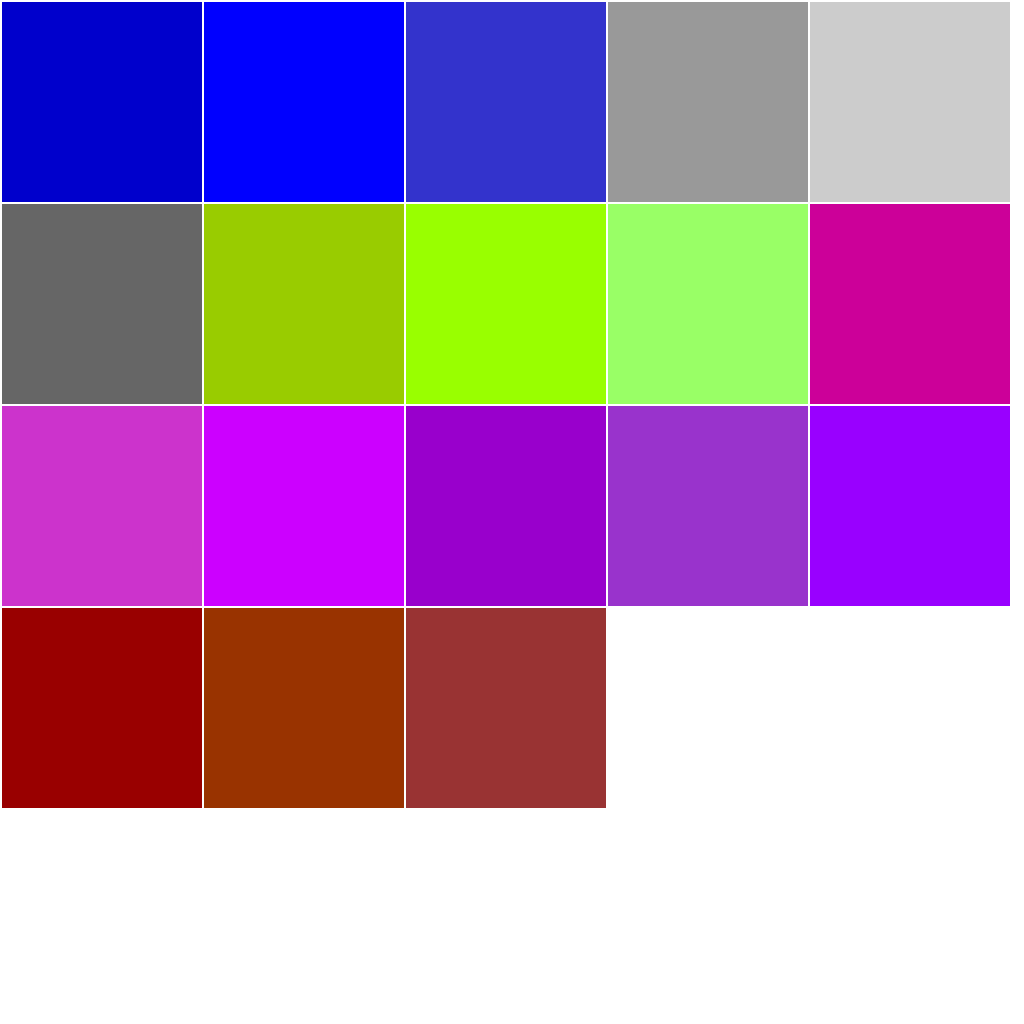
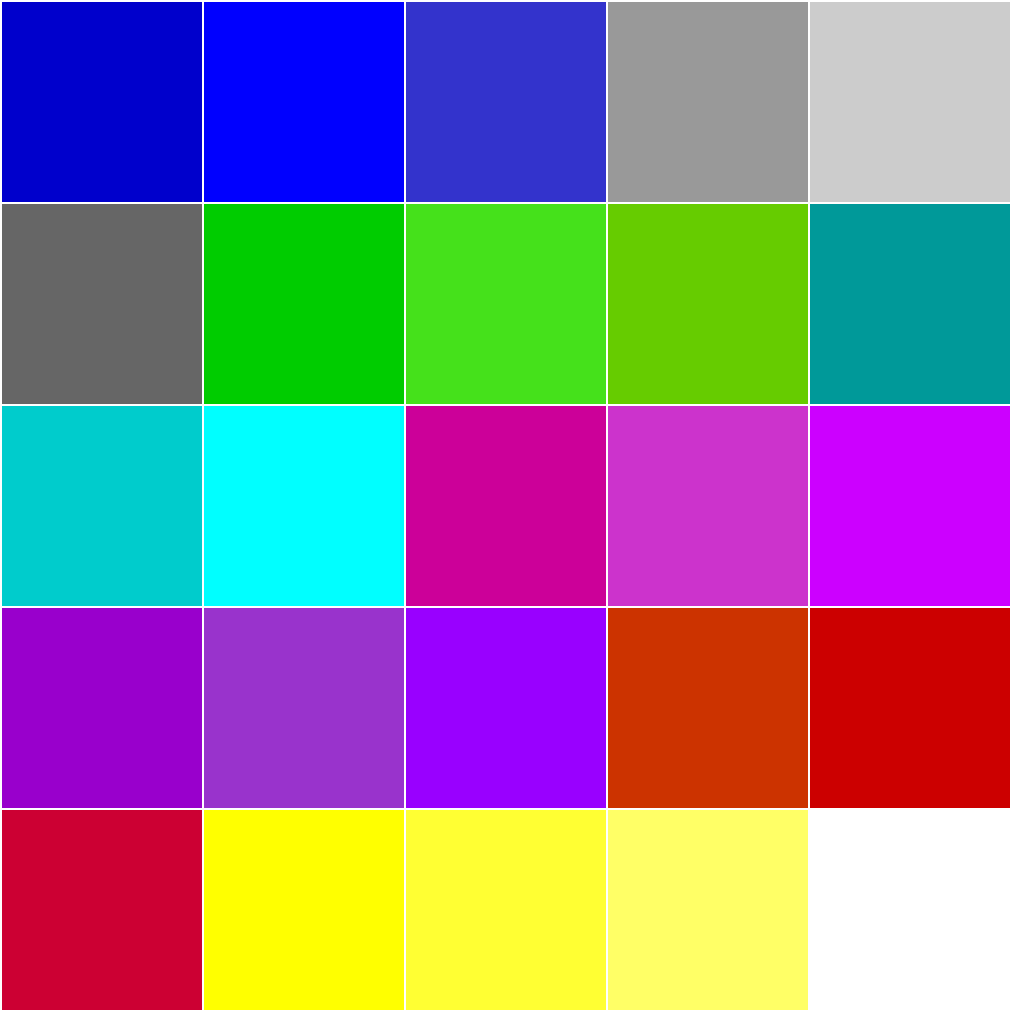
ver1.5

diff --git a/colorBlock/colorBlock.js b/colorBlock/colorBlock.js
@@ -2405,12 +2405,12 @@ ccs.SceneReader.getInstance=function(){this._instance||(this._instance=new ccs.S
 this.addChild(a,1);return!0},startGame:function(){cc.log("go");var a=mainLayer.create();cc.Director.getInstance().replaceScene(cc.TransitionFade.create(0.5,a))}}),MyScene=cc.Scene.extend({onEnter:function(){this._super();var a=new beginLayer;this.addChild(a);a.init()}});var cocos2dApp=cc.Application.extend({config:document.ccConfig,ctor:function(a){this._super();this.startScene=a;cc.COCOS2D_DEBUG=this.config.COCOS2D_DEBUG;cc.initDebugSetting();cc.setup(this.config.tag);cc.AppController.shareAppController().didFinishLaunchingWithOptions()},applicationDidFinishLaunching:function(){var a=cc.Director.getInstance(),c=[],d=[];c.push("res");cc.FileUtils.getInstance().setSearchPaths(c);d.push("HD");cc.FileUtils.getInstance().setSearchResolutionsOrder(d);cc.EGLView.getInstance().adjustViewPort(!0);
 cc.EGLView.getInstance().setDesignResolutionSize(640,960,cc.RESOLUTION_POLICY.SHOW_ALL);cc.EGLView.getInstance()._resizeWithBrowserSize(!0);a.setAnimationInterval(1/this.config.frameRate);cc.LoaderScene.preload(g_resources,function(){a.replaceScene(new this.startScene)},this);return!0}}),myApp=new cocos2dApp(MyScene);var mainLayer=cc.LayerColor.extend({winsize:null,blockArray:null,gameTime:30,sp_gameTime:null,gameLevel:0,sp_gameLevel:null,posArray:null,toFindBlock:null,otherTag:200,init:function(){this._super();this.winsize=cc.Director.getInstance().getWinSize();var a=cc.Sprite.create(s_img01);a.setPosition(cc.p(0.5*this.winsize.width,0.5*this.winsize.height));this.addChild(a,1);cc.SpriteFrameCache.getInstance().addSpriteFrames(s_img08);this.blockArray=[];this.sp_gameTime=cc.LabelTTF.create("\u65f6\u95f4 : "+
 this.gameTime,"Consolas",30);this.sp_gameTime.setAnchorPoint(cc.p(0,0.5));this.sp_gameTime.setColor(cc.c3(245,245,50));this.sp_gameTime.setPosition(cc.p(0.1*this.winsize.width,0.82*this.winsize.height));this.addChild(this.sp_gameTime,2);this.sp_gameLevel=cc.LabelTTF.create("\u7ec4\u6570 : "+this.gameLevel,"Consolas",30);this.sp_gameLevel.setAnchorPoint(cc.p(0,0.5));this.sp_gameLevel.setColor(cc.c3(245,245,50));this.sp_gameLevel.setPosition(cc.p(0.66*this.winsize.width,0.82*this.winsize.height));this.addChild(this.sp_gameLevel,
-2);this.setTouchEnabled(!0);this.toFindBlock=cc.Sprite.createWithSpriteFrameName("img_red01.png");this.scheduleOnce(this.addBlocks);this.schedule(this.timeTicking,1,cc.REPEAT_FOREVER,0.05)},onEnterTransitionDidFinish:function(){},gotoOverLayer:function(){var a=overLayer.create(this.gameLevel,parseInt(this.gameTime/60));cc.Director.getInstance().replaceScene(a)},addBlocks:function(){for(var a=200;210>a;a++){var c=this.getChildByTag(a);this.removeChild(c,!0)}cc.log("schedule");var a=this.getRandom(6)+
-1,d=this.getRandom(3)+1,e=this.getDifferent(d),c=this.getRandom(3)+1,f=this.getRandom(3)+1,g,h,k;switch(a){case 1:g="img_blue";break;case 2:g="img_gray";break;case 3:g="img_green";break;case 4:g="img_pink";break;case 5:g="img_purple";break;case 6:g="img_red"}switch(d){case 1:h=g+"01.png";break;case 2:h=g+"02.png";break;case 3:h=g+"03.png"}switch(e){case 1:k=g+"01.png";break;case 2:k=g+"02.png";break;case 3:k=g+"03.png"}this.toFindBlock.initWithSpriteFrameName(h);this.toFindBlock.setPosition(this.makePosition(c,
-f));this.toFindBlock.setTag(200);this.addChild(this.toFindBlock,1);for(a=1;3>=a;a++)for(g=1;3>=g;g++)if(a!=c||g!=f)h=cc.Sprite.createWithSpriteFrameName(k),h.setPosition(this.makePosition(a,g)),this.otherTag+=1,h.setTag(this.otherTag),this.addChild(h,1)},makePosition:function(a,c){var d,e;switch(a){case 1:d=0.5*this.winsize.width+200;break;case 2:d=0.5*this.winsize.width;break;case 3:d=0.5*this.winsize.width-200}switch(c){case 1:e=0.45*this.winsize.height+200;break;case 2:e=0.45*this.winsize.height;
-break;case 3:e=0.45*this.winsize.height-200}return cc.p(d,e)},timeTicking:function(){this.gameTime-=1;this.sp_gameTime.setString("\u65f6\u95f4 : "+this.gameTime);0==this.gameOver&&(this.unschedule(this.timeTicking),this.gotoOverLayer(this.gameTime,this.gameLevel))},getRandom:function(a){return Math.floor(Math.random()*a)%a},getDifferent:function(a){for(var c=this.getRandom(3)+1;c==a;)c=this.getRandom(3)+1;return c},onTouchesMoved:function(a,c){},onTouchesEnded:function(a,c){this.onClickFlag=!1},onTouchesBegan:function(a,
-c){var d=a[0].getLocation();cc.rectContainsPoint(this.toFindBlock.getBoundingBox(),d)?(this.onClickFlag=!0,this.otherTag=200,this.gameLevel+=1,this.sp_gameLevel.setString("\u7ec4\u6570 : "+this.gameLevel),this.scheduleOnce(this.addBlocks)):this.gotoOverLayer(this.gameTime,this.gameLevel)}});mainLayer.create=function(){var a=new mainLayer;a.init();var c=cc.Scene.create();c.addChild(a);return c};var overLayer=cc.LayerColor.extend({winsize:null,gameLevel:0,gameTime:0,init:function(){this._super();this.winsize=cc.Director.getInstance().getWinSize();var a=cc.Sprite.create(s_img01);a.setPosition(cc.p(0.5*this.winsize.width,0.5*this.winsize.height));this.addChild(a,1);a=cc.Sprite.create(s_img06);a.setPosition(cc.p(0.5*this.winsize.width,0.55*this.winsize.height));this.addChild(a,1);a=cc.MenuItemImage.create(s_img04,s_img05,this.gotoMainLayer,this);a=cc.Menu.create(a);a.setPosition(cc.p(0.5*this.winsize.width,
+2);this.setTouchEnabled(!0);this.toFindBlock=cc.Sprite.createWithSpriteFrameName("img_red01.png");this.scheduleOnce(this.addBlocks);this.schedule(this.timeTicking,1)},onEnterTransitionDidFinish:function(){},gotoOverLayer:function(){var a=overLayer.create(this.gameLevel,this.gameTime);cc.Director.getInstance().replaceScene(a)},addBlocks:function(){for(var a=200;210>a;a++){var c=this.getChildByTag(a);this.removeChild(c,!0)}cc.log("schedule");var a=this.getRandom(6)+1,d=this.getRandom(3)+1,e=this.getDifferent(d),
+c=this.getRandom(3)+1,f=this.getRandom(3)+1,g,h,k;switch(a){case 1:g="img_blue";break;case 2:g="img_gray";break;case 3:g="img_green";break;case 4:g="img_pink";break;case 5:g="img_purple";break;case 6:g="img_red";break;case 7:g="img_yellow"}switch(d){case 1:h=g+"01.png";break;case 2:h=g+"02.png";break;case 3:h=g+"03.png"}switch(e){case 1:k=g+"01.png";break;case 2:k=g+"02.png";break;case 3:k=g+"03.png"}this.toFindBlock.initWithSpriteFrameName(h);this.toFindBlock.setPosition(this.makePosition(c,f));
+this.toFindBlock.setTag(200);this.addChild(this.toFindBlock,1);for(a=1;3>=a;a++)for(g=1;3>=g;g++)if(a!=c||g!=f)h=cc.Sprite.createWithSpriteFrameName(k),h.setPosition(this.makePosition(a,g)),this.otherTag+=1,h.setTag(this.otherTag),this.addChild(h,1)},makePosition:function(a,c){var d,e;switch(a){case 1:d=0.815*this.winsize.width;break;case 2:d=0.5*this.winsize.width;break;case 3:d=0.185*this.winsize.width}switch(c){case 1:e=0.66*this.winsize.height;break;case 2:e=0.45*this.winsize.height;break;case 3:e=
+0.24*this.winsize.height}return cc.p(d,e)},timeTicking:function(){0>=this.gameTime?(cc.log("unschedule"),this.unschedule(this.timeTicking),this.gotoOverLayer()):(this.gameTime-=1,this.sp_gameTime.setString("\u65f6\u95f4 : "+this.gameTime))},getRandom:function(a){return Math.floor(Math.random()*a)%a},getDifferent:function(a){for(var c=this.getRandom(3)+1;c==a;)c=this.getRandom(3)+1;return c},onTouchesMoved:function(a,c){},onTouchesEnded:function(a,c){this.onClickFlag=!1},onTouchesBegan:function(a,
+c){var d=a[0].getLocation();cc.rectContainsPoint(this.toFindBlock.getBoundingBox(),d)?(this.onClickFlag=!0,this.otherTag=200,this.gameLevel+=1,this.sp_gameLevel.setString("\u7ec4\u6570 : "+this.gameLevel),this.scheduleOnce(this.addBlocks)):this.gotoOverLayer()}});mainLayer.create=function(){var a=new mainLayer;a.init();var c=cc.Scene.create();c.addChild(a);return c};var overLayer=cc.LayerColor.extend({winsize:null,gameLevel:0,gameTime:0,init:function(){this._super();this.winsize=cc.Director.getInstance().getWinSize();var a=cc.Sprite.create(s_img01);a.setPosition(cc.p(0.5*this.winsize.width,0.5*this.winsize.height));this.addChild(a,1);a=cc.Sprite.create(s_img06);a.setPosition(cc.p(0.5*this.winsize.width,0.55*this.winsize.height));this.addChild(a,1);a=cc.MenuItemImage.create(s_img04,s_img05,this.gotoMainLayer,this);a=cc.Menu.create(a);a.setPosition(cc.p(0.5*this.winsize.width,
 0.29*this.winsize.height));this.addChild(a,1);a=cc.Sprite.create(s_img11);a.setPosition(cc.p(0.5*this.winsize.width,0.8*this.winsize.height));this.addChild(a,1);a=cc.Sprite.create(s_img10);a.setPosition(cc.p(0.8*this.winsize.width,0.81*this.winsize.height));a.setRotation(30);a.setScale(0.8);this.addChild(a,1);var c=cc.MoveTo.create(0.4,cc.p(0.85*this.winsize.width,0.85*this.winsize.height)),d=cc.MoveTo.create(0.4,cc.p(0.8*this.winsize.width,0.81*this.winsize.height)),c=cc.Sequence.create(c,d),c=cc.RepeatForever.create(c);
-a.runAction(c);a=cc.LabelTTF.create("\u4f60\u572830\u79d2\u5185\u5171\u8bc6\u522b\uff1a"+this.gameLevel+"\u7ec4","Arial",25);a.setAnchorPoint(cc.p(0.5,0.5));a.setColor(cc.c3(245,245,50));a.setPosition(cc.p(0.5*this.winsize.width,0.6*this.winsize.height));this.addChild(a,1);a=cc.LabelTTF.create(20>this.gameLevel?"\u773c\u7565\u7638\uff0c\u9a9a\u5e74\u8fd8\u9700\u52a0\u6cb9\uff01":15<=this.gameLevel&&40>this.gameLevel?"\u522b\u6025\uff0c\u5e73\u5e38\u773c\u529b\u800c\u5df2\uff01":50<=this.gameLevel&&
-70>this.gameLevel?"\u773c\u529b\u51fa\u4f17\uff0c\u4f60\u5df2\u8131\u9896\u800c\u51fa\uff01":"\u4f60\u7684\u773c\u529b\u7edd\u975e\u5730\u7403\u4eba\u53ef\u6bd4\uff01","Arial",25);a.setAnchorPoint(cc.p(0.5,0.5));a.setColor(cc.c3(245,245,50));a.setPosition(cc.p(0.5*this.winsize.width,0.5*this.winsize.height));this.addChild(a,1);a=cc.LabelTTF.create("\u66f4\u591a\u5c0f\u6e38\u620f,\u5c3d\u5728\u5fae\u4fe1\u8ba2\u9605\u53f7 : aiwanGames","Arial",20);a.setColor(cc.c3(245,245,50));a.setAnchorPoint(cc.p(0.5,
+a.runAction(c);a=cc.LabelTTF.create("\u4f60\u572830\u79d2\u5185\u5171\u8bc6\u522b\uff1a"+this.gameLevel+"\u7ec4","Arial",25);a.setAnchorPoint(cc.p(0.5,0.5));a.setColor(cc.c3(245,245,50));a.setPosition(cc.p(0.5*this.winsize.width,0.6*this.winsize.height));this.addChild(a,1);a=cc.LabelTTF.create(20>this.gameLevel?"\u773c\u7565\u7638\uff0c\u9a9a\u5e74\u8fd8\u9700\u52a0\u6cb9\uff01":15<=this.gameLevel&&30>this.gameLevel?"\u606d\u559c\uff0c\u5927\u4f17\u773c\u529b\uff01":30<=this.gameLevel&&50>this.gameLevel?
+"\u773c\u75be\u624b\u5feb\uff01":50<=this.gameLevel&&70>this.gameLevel?"\u6cd5\u773c\u901a\u5929\uff01":"\u8bf7\u53d1\u9001\u622a\u56fe\u7ed9\u6211\u4eec\u62bd\u53d6\u8bdd\u8d39\uff01","Arial",25);a.setAnchorPoint(cc.p(0.5,0.5));a.setColor(cc.c3(245,245,50));a.setPosition(cc.p(0.5*this.winsize.width,0.5*this.winsize.height));this.addChild(a,1);a=cc.LabelTTF.create("\u66f4\u591a\u5c0f\u6e38\u620f,\u5c3d\u5728\u5fae\u4fe1\u8ba2\u9605\u53f7 : aiwanGames","Arial",20);a.setColor(cc.c3(245,245,50));a.setAnchorPoint(cc.p(0.5,
 0.5));a.setPosition(cc.p(0.5*this.winsize.width,0.2*this.winsize.height));this.addChild(a,1)},onEnterTransitionDidFinish:function(){},gotoMainLayer:function(){var a=mainLayer.create();cc.Director.getInstance().replaceScene(cc.TransitionFade.create(0.5,a))},update:function(a){},setScore:function(a,c){this.gameLevel=a;this.gameTime=c}});overLayer.create=function(a,c){var d=new overLayer;d.setScore(a,c);d.init();var e=cc.Scene.create();e.addChild(d);return e};

diff --git a/colorBlock/src/mainLayer.js b/colorBlock/src/mainLayer.js
@@ -42,7 +42,7 @@ var mainLayer = cc.LayerColor.extend({
         //生成9个图块，慢慢隐现
         this.toFindBlock =cc.Sprite.createWithSpriteFrameName("img_red01.png");
         this.scheduleOnce(this.addBlocks);
-        this.schedule(this.timeTicking,1.0,cc.REPEAT_FOREVER,0.05);
+        this.schedule(this.timeTicking,1.0);
     },
 
     onEnterTransitionDidFinish:function()
@@ -52,7 +52,7 @@ var mainLayer = cc.LayerColor.extend({
 
     gotoOverLayer:function()
     {
-        var scene=overLayer.create(this.gameLevel,parseInt(this.gameTime/60));
+        var scene=overLayer.create(this.gameLevel,this.gameTime);
         cc.Director.getInstance().replaceScene(scene);
     },
 
@@ -92,6 +92,9 @@ var mainLayer = cc.LayerColor.extend({
                 break;
             case 6:
                 blockstr="img_red";
+                break;
+            case 7:
+                blockstr="img_yellow";
                 break;
         }
         switch(toFindId)
@@ -148,25 +151,25 @@ var mainLayer = cc.LayerColor.extend({
         switch(_px)
         {
             case 1:
-                px=this.winsize.width*0.5+200;
+                px=this.winsize.width*0.815;
                 break;
             case 2:
                 px=this.winsize.width*0.5;
                 break;
             case 3:
-                px=this.winsize.width*0.5-200;
+                px=this.winsize.width*0.185;
                 break;
         }
         switch(_py)
         {
             case 1:
-                py=this.winsize.height*0.45+200;
+                py=this.winsize.height*0.66;
                 break;
             case 2:
                 py=this.winsize.height*0.45;
                 break;
             case 3:
-                py=this.winsize.height*0.45-200;
+                py=this.winsize.height*0.24;
                 break;
         }
         return cc.p(px,py);
@@ -175,12 +178,16 @@ var mainLayer = cc.LayerColor.extend({
     timeTicking:function()
     {
         //倒计时
-        this.gameTime-=1;
-        this.sp_gameTime.setString("时间 : "+this.gameTime);
-        if(this.gameOver==0)
+        if(this.gameTime<=0)
         {
+            cc.log("unschedule");
             this.unschedule(this.timeTicking);
-            this.gotoOverLayer(this.gameTime,this.gameLevel);
+            this.gotoOverLayer();
+        }
+        else
+        {
+            this.gameTime-=1;
+            this.sp_gameTime.setString("时间 : "+this.gameTime);
         }
     },
 
@@ -224,7 +231,7 @@ var mainLayer = cc.LayerColor.extend({
         }
         else
         {
-            this.gotoOverLayer(this.gameTime,this.gameLevel);
+            this.gotoOverLayer();
         }
     }
 })

diff --git a/colorBlock/src/overLayer.js b/colorBlock/src/overLayer.js
@@ -53,17 +53,21 @@ var overLayer = cc.LayerColor.extend({
         {
             _comment="眼略瘸，骚年还需加油！"
         }
-        else if(this.gameLevel>=15&&this.gameLevel<40)
+        else if(this.gameLevel>=15&&this.gameLevel<30)
         {
-            _comment="别急，平常眼力而已！"
+            _comment="恭喜，大众眼力！"
+        }
+        else if(this.gameLevel>=30&&this.gameLevel<50)
+        {
+            _comment="眼疾手快！"
         }
         else if(this.gameLevel>=50&&this.gameLevel<70)
         {
-            _comment="眼力出众，你已脱颖而出！"
+            _comment="法眼通天！"
         }
         else
         {
-            _comment="你的眼力绝非地球人可比！"
+            _comment="请发送截图给我们抽取话费！"
         }
         var sp_comment=cc.LabelTTF.create(_comment,"Arial",25);
         sp_comment.setAnchorPoint(cc.p(0.5,0.5));
